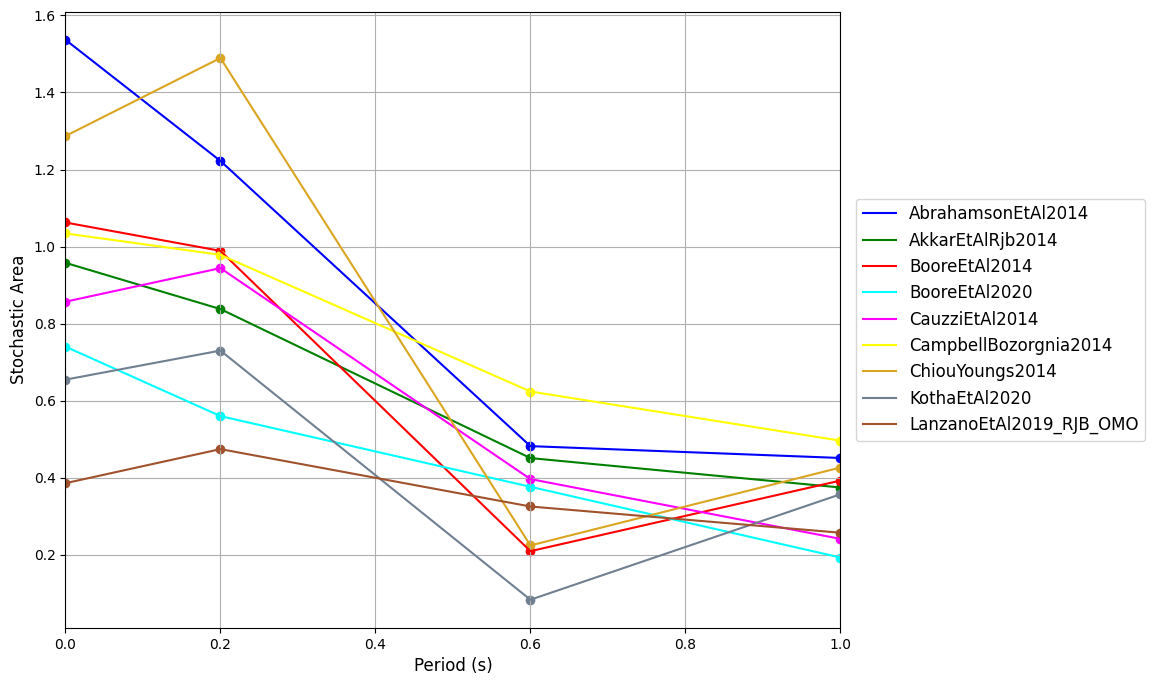
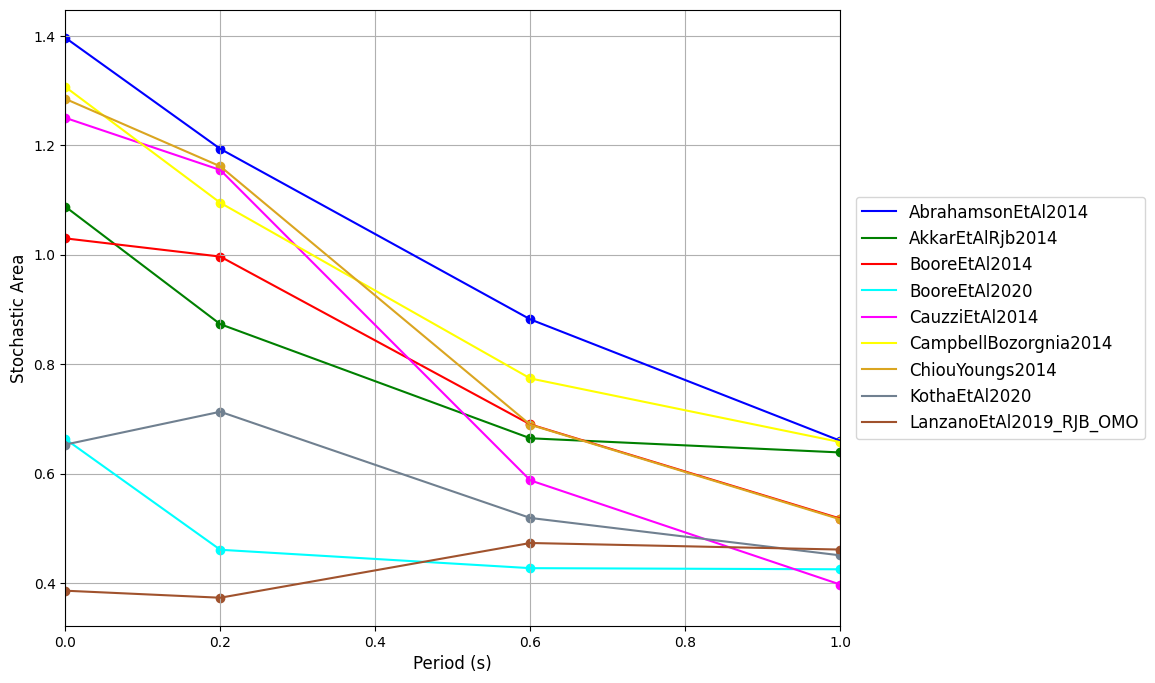
fixes

diff --git a/openquake/smt/residuals/gmpe_residuals.py b/openquake/smt/residuals/gmpe_residuals.py
@@ -26,8 +26,7 @@ import re
 import toml
 import numpy as np
 import pandas as pd
-from scipy.integrate import trapezoid
-from scipy.stats import norm
+from scipy.stats import norm, wasserstein_distance
 
 from openquake.hazardlib import imt, valid, nrml, contexts
 from openquake.baselib.node import Node as N
@@ -822,7 +821,7 @@ class Residuals(object):
         return de_orig / de_corr
 
     ### Stochastic Area (Sunny et al. 2021) functions
-    def get_sto_wrt_imt(self):
+    def get_sto_wrt_imt(self, num_samples=1000):
         """
         Calculates the stochastic area values per GMPE for each IMT
         according to the Stochastic Area Ranking method of Sunny et
@@ -832,59 +831,48 @@ class Residuals(object):
         of Earthquake Ground Motion Models Using the Stochastic Area Metric,
         Seismol. Res. Lett. 93, 787–797, doi: 10.1785/0220210216
         """
+        # Midpoint quantiles give deterministic model samples.
+        quantiles = norm.ppf((np.arange(num_samples) + 0.5) / num_samples)
+
         # Create store of values per gmm
         stoch_area_store = {gmpe: {} for gmpe in self.gmpe_list}
-        
+
         # Iterate over the GMMs
         for gmpe in self.gmpe_list:
             stoch_area_wrt_imt = {}
 
             # Iterate over the IMTs
             for imtx in self.imts:
-
                 # Stack values
-                obs = np.array([], dtype=float)
-                exp = np.array([], dtype=float)
-                std = np.array([], dtype=float)
+                observed, expected, sigmas = [], [], []
                 for context in self.contexts:
-                    obs = np.hstack([obs, np.log(context["Observations"][imtx])])
-                    exp = np.hstack([exp, context["Expected"][gmpe][imtx]["Mean"]])
-                    std = np.hstack([std, context["Expected"][gmpe][imtx]["Total"]])
+                    keep = context["Retained"][imtx]
+                    values = context["Observations"][imtx][keep]
+                    observed.append(np.log(values))
+                    model = context["Expected"][gmpe][imtx]
+                    expected.append(model["Mean"])
+                    sigmas.append(model["Total"])
+                obs = np.concatenate(observed)
+                exp = np.concatenate(expected)
+                std = np.concatenate(sigmas)
 
                 # Take only the finite obs
-                idx_f = np.isfinite(obs)
-                obs = obs[idx_f]
                 assert len(obs) == len(exp) == len(std)
+                idx_f = np.isfinite(obs)
+                obs, exp, std = obs[idx_f], exp[idx_f], std[idx_f]
 
-                # Get the ECDF for distribution from observations
-                x_ecdf, y_ecdf = self.get_cdf_data(list(obs), step_flag=True)
-                
-                # Get the CDF for distribution from gmm
-                x_cdf, y_cdf = self.get_cdf_data(list(exp))
+                # Get the model distribution including total aleatory sigma
+                model_samples = exp[:, None] + std[:, None] * quantiles
 
-                # Get approximately overlapping subsets of ECDF and CDF
-                ecdf_xvals = [np.nanmin(x_ecdf), np.nanmax(x_ecdf)]
-                cdf_xvals = [np.nanmin(x_cdf), np.nanmax(x_cdf)]
-                xval_min = np.max([ecdf_xvals[0], cdf_xvals[0]])
-                xval_max = np.min([ecdf_xvals[1], cdf_xvals[1]])
-                idx_ecdf = np.logical_and(x_ecdf<=xval_max, x_ecdf>=xval_min)
-                idx_cdf = np.logical_and(x_cdf<=xval_max, x_cdf>=xval_min)
-                x_ecdf, y_ecdf = x_ecdf[idx_ecdf], y_ecdf[idx_ecdf]
-                x_cdf, y_cdf = x_cdf[idx_cdf], y_cdf[idx_cdf]
-
-                # Get area under each curve's overlapping portions
-                area_obs = trapezoid(y_ecdf, x_ecdf)
-                area_gmm = trapezoid(y_cdf, x_cdf)
-
-                # Get absolute of difference in areas - eq 3 of paper
-                stoch_area = np.abs(area_gmm - area_obs)
+                # Integrate the absolute CDF difference over the full domain
+                stoch_area = wasserstein_distance(obs, model_samples.ravel())
 
                 # Store the stoch area per imt for given gmm
                 stoch_area_wrt_imt[imtx] = max(1E-09, stoch_area)
 
             # Store for given gmm
             stoch_area_store[gmpe] = stoch_area_wrt_imt
-        
+
         # Add to residuals object
         self.stoch_areas_wrt_imt = stoch_area_store
 

diff --git a/openquake/smt/tests/residuals/residuals_test.py b/openquake/smt/tests/residuals/residuals_test.py
@@ -27,6 +27,8 @@ import tempfile
 import unittest
 import pickle
 import numpy as np
+from numpy.testing import assert_allclose
+from scipy.stats import norm, wasserstein_distance
 
 import openquake.smt.residuals.gmpe_residuals as res
 import openquake.smt.residuals.residual_plotter as rspl
@@ -106,6 +108,80 @@ EXP = {gsim: RES.read(gsim) for gsim in GSIMS}
 RES_STATIONS = Result(os.path.join(CWD, 'exp_stations'))
 EXP_STATIONS = [{gsim: RES_STATIONS.read(
     gsim, idx) for gsim in GSIMS} for idx in range(8)]
+
+
+def _context(obs, mean, sigma):
+    # Predictions have already been restricted to retained observations.
+    obs = np.asarray(obs, dtype=float)
+    return {
+        'Observations': {'PGA': np.exp(obs)},
+        'Retained': {'PGA': np.flatnonzero(~np.isnan(obs))},
+        'Expected': {'model': {'PGA': {
+            'Mean': np.asarray(mean, dtype=float),
+            'Total': np.broadcast_to(sigma, np.shape(mean))}}}}
+
+
+def _score(contexts, num_samples=1000):
+    # Bypass GSIM construction to isolate the metric from model evaluation.
+    residuals = object.__new__(res.Residuals)
+    residuals.gmpe_list = {'model': None}
+    residuals.imts = ['PGA']
+    residuals.contexts = contexts
+    residuals.get_sto_wrt_imt(num_samples=num_samples)
+    return residuals.stoch_areas_wrt_imt['model']['PGA']
+
+
+class StochasticAreaTestCase(unittest.TestCase):
+    def test_empirical_distributions(self):
+        # Zero sigma gives exact empirical distributions, including ties.
+        cases = [([0, 1, 2], [0, 1, 2]),
+                 ([0, 1, 2], [3, 4, 5]),
+                 ([0], [3]),
+                 ([-1, 0, 1], [-2, 0, 2]),
+                 ([0, 1, 2], [0, 2, 2])]
+        for obs, mean in cases:
+            with self.subTest(obs=obs, mean=mean):
+                got = _score([_context(obs, mean, 0.)])
+                expected = max(1E-09, wasserstein_distance(obs, mean))
+                assert_allclose(got, expected, atol=1E-14)
+
+    def test_single_gaussian(self):
+        # W1 between a point and a Gaussian is the folded-normal mean.
+        for offset in [0., 1., 3.]:
+            for sigma in [0.1, 0.5, 2.]:
+                with self.subTest(offset=offset, sigma=sigma):
+                    expected = (2 * sigma * norm.pdf(offset / sigma)
+                                + offset * (2 * norm.cdf(offset / sigma) - 1))
+                    got = _score([_context([0.], [offset], sigma)])
+                    assert_allclose(got, expected, atol=5E-04, rtol=0)
+
+    def test_sigma_sensitivity_and_convergence(self):
+        context = _context([0.], [0.], 1.)
+        expected = np.sqrt(2 / np.pi)
+        coarse = _score([context], num_samples=100)
+        fine = _score([context], num_samples=10000)
+        self.assertLess(abs(fine - expected), abs(coarse - expected))
+        small = _score([_context([0.], [0.], 0.1)])
+        large = _score([_context([0.], [0.], 2.)])
+        assert_allclose(large / small, 20.)
+
+    def test_record_weighting_and_context_partition(self):
+        # Records have equal mass irrespective of event/context size.
+        together = [_context([0., 1., 3.], [0., 2., 4.], [0.1, 0.5, 2.])]
+        split = [_context([0.], [0.], 0.1),
+                 _context([1., 3.], [2., 4.], [0.5, 2.])]
+        assert_allclose(_score(together), _score(split))
+        q = norm.ppf((np.arange(10000) + 0.5) / 10000)
+        model = np.concatenate([0.1 * q, 2. + 0.5 * q, 4. + 2. * q])
+        reference = wasserstein_distance([0., 1., 3.], model)
+        assert_allclose(_score(split), reference, atol=5E-04, rtol=0)
+
+    def test_missing_observations(self):
+        reference = _score([_context([0., 2.], [0., 2.], 0.5)])
+        missing = _context([0., np.nan, 2.], [0., 2.], 0.5)
+        assert_allclose(_score([missing]), reference)
+        empty = _context([np.nan], [], [])
+        assert_allclose(_score([empty, missing]), reference)
 
 
 class ResidualsTestCase(unittest.TestCase):
